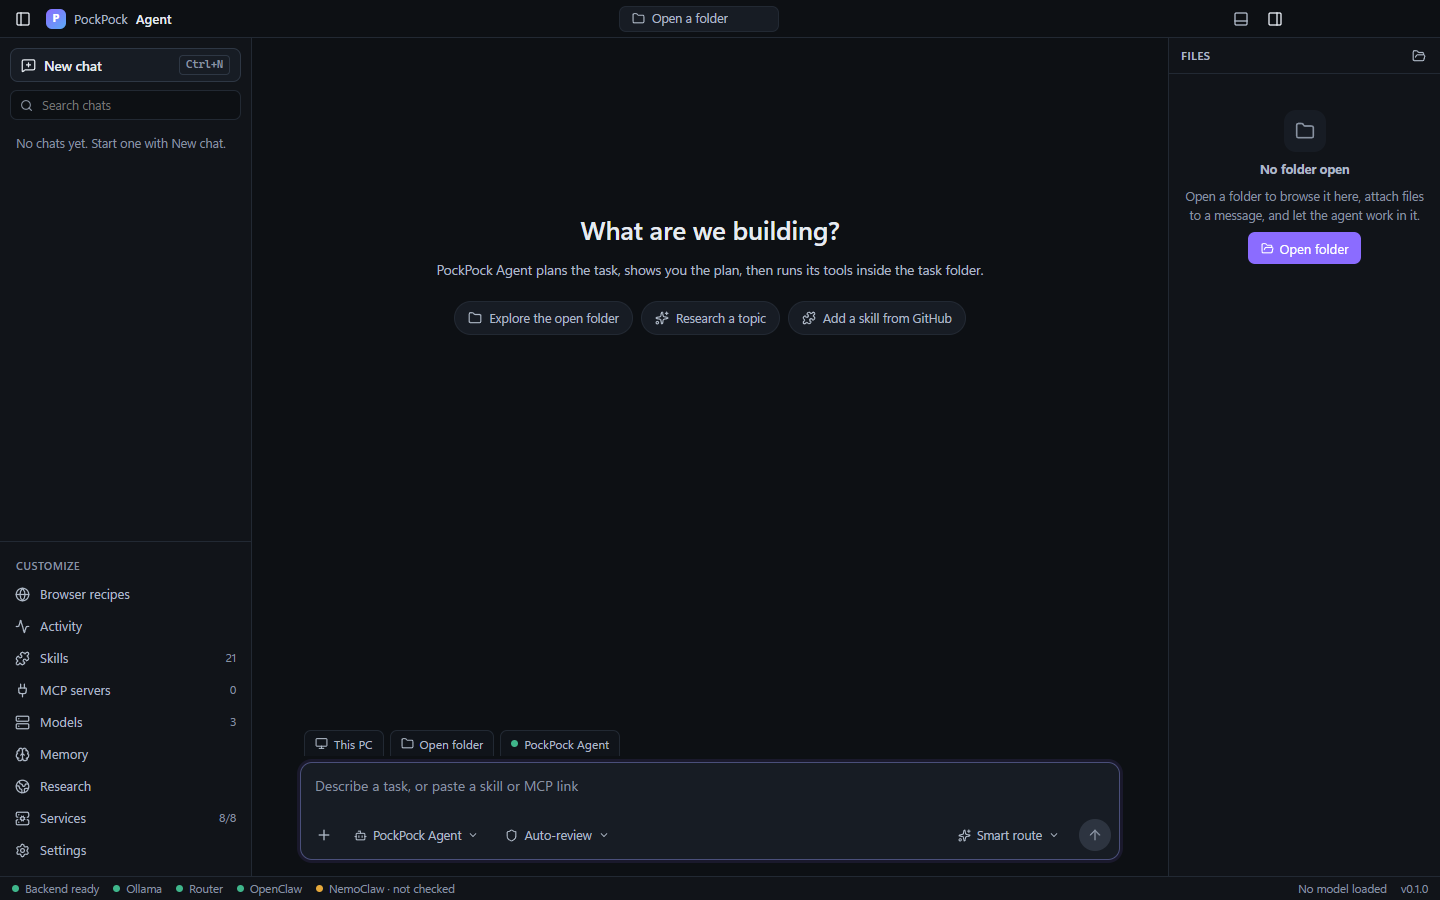
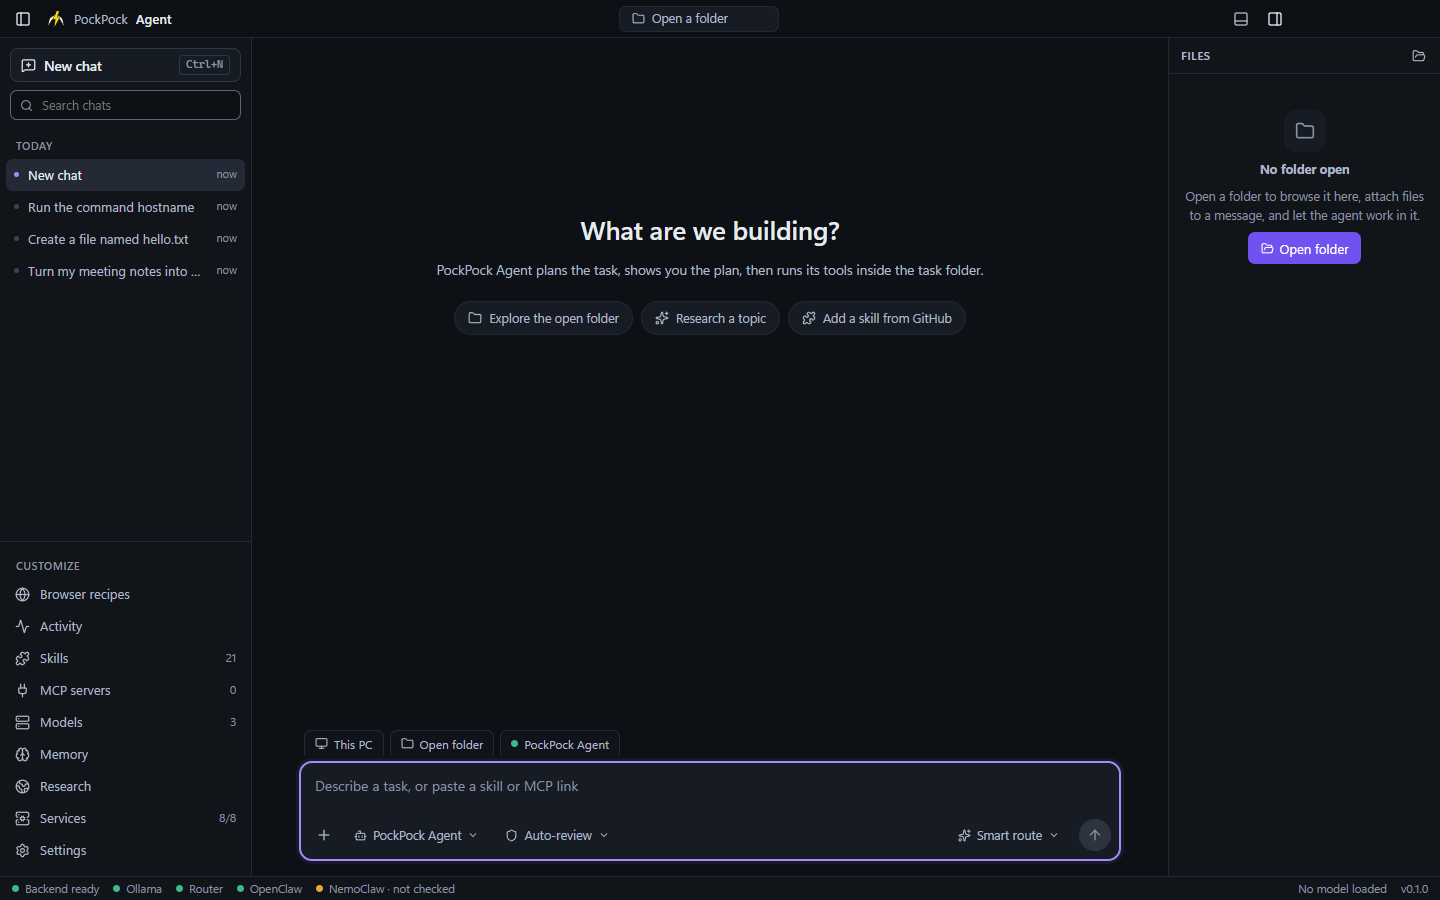
docs: screenshots of the new look, themes and the brand mark
Retakes every README screenshot with the claw-and-bolt mark and current UI, adds a themes comparison and the theme picker, puts the app icon at the top of the README, and describes the themes and the working indicator in the highlights. Example chats in the screenshots are seeded; no model was run.

Changed region(s): [[0.0, 0.1556, 0.1875, 0.3111], [0.8438, 0.2489, 0.9688, 0.3111], [0.0312, 0.0, 0.0625, 0.0311]]

diff --git a/README.md b/README.md
@@ -1,3 +1,5 @@
+<p align="center"><img src="design-system/brand/png/pockpock-icon-128.png" width="96" height="96" alt=""></p>
+
 # PockPock Agent
 
 [![CI](https://github.com/PockPock9/PockPockAgent/actions/workflows/ci.yml/badge.svg)](https://github.com/PockPock9/PockPockAgent/actions/workflows/ci.yml)
@@ -25,11 +27,17 @@ PockPock is a local AI workspace for Windows and macOS. Its desktop app, **PockP
 |---|---|
 | ![Approval card with the diff of a new file](docs/images/agent-approval.png) | ![OpenClaw asking before it runs a command](docs/images/openclaw-approval.png) |
 
-**The agent checks its own work.** Before reporting a task done, the agent validates the result against the plan's success checks and lists every file it changed or produced.
+**The agent checks its own work.** Before reporting a task done, the agent validates the result against the plan's success checks and lists every file it changed or produced. Under every reply you see where the time went: planning, waiting for you, and working.
+
+**You can always see it working.** While an agent thinks, plans or runs a tool, the bolt of the PockPock mark pulses next to what it is doing, with a running timer, and a thin bar sweeps across the composer. It never just sits there.
 
 ![Finished task with validation results and the changed file](docs/images/agent-done.png)
 
 **Skills and MCP servers from a link.** Paste a GitHub skill link or an MCP server address. PockPock shows what it would install, adds it only after you approve, and lets you switch each one off without removing it.
+
+**Five themes.** **PockPock Dark** (the default), **Volt** and **Storm** in the brand's colours, **Feather** for light mode, and **System**, which follows your computer. Every theme meets WCAG AA contrast. Pick one in **Settings → Theme**.
+
+![The same plan review in PockPock Dark, Volt, Storm and Feather](docs/images/themes.png)
 
 **One app runs everything.** Ollama, the backend services and the agent engines start with the app. Start, stop, restart, or read the logs of each one from the **Services** page.
 

diff --git a/docs/features/themes.md b/docs/features/themes.md
@@ -9,6 +9,10 @@ The desktop app has five themes and shows the PockPock mark in its title bar and
 - The title bar shows the mark (a chicken foot whose centre toe is a lightning bolt) next to "PockPock Agent".
 - While an agent thinks, plans or runs a tool, the mark's bolt pulses next to the status text ("Thinking", "Planning and reviewing the task", the running step) and its elapsed time, and a thin bar sweeps along the top of the composer. With **reduce motion** switched on in the operating system, nothing moves: the bolt is still, the bar is solid, and the text stays.
 
+![The same plan review in PockPock Dark, Volt, Storm and Feather](../images/themes.png)
+
+![Settings → Theme, with a colour preview for each theme](../images/settings-theme.png)
+
 ## Modules
 
 | Module | Role |
